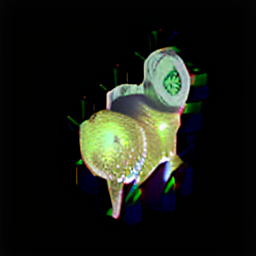
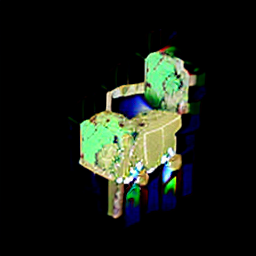
modified:   drag.py 	modified:   guidance/sd_utils.py 	modified:   main3.py 	modified:   main4.py

diff --git a/main4.py b/main4.py
@@ -181,7 +181,7 @@ class GUI:
 
         # prepare text_embeddings
         self.pos_embeds = self.guidance_sd.encode_text(self.prompt)  # [1, 77, 768]
-        # self.guidance_sd.get_text_embeds([self.prompt], [self.negative_prompt])
+        self.guidance_sd.get_text_embeds([self.prompt], [self.negative_prompt])
 
     def get_2d_mask(self, mask_dir):
         source_images, imgname2idx = load_and_preprocess_images(args.folder_path, device="cuda")
@@ -234,9 +234,9 @@ class GUI:
         poses = []  
         vers, hors, radii = [], [], []
         start_points = torch.tensor([[[390, 154]],[[227,127]],[[360, 123]],[[560, 110]]])
-        start_points = (start_points / 800) * 128
+        start_points = (start_points * 128 // 800).float()
         end_points = torch.tensor([[[390, 84]],[[227, 61]],[[360, 62]],[[560, 34]]])
-        end_points = (end_points / 800) * 128
+        end_points = (end_points * 128 // 800).float() 
         latents_before_editing = []
         masks = []
         # avoid too large elevation (> 80 or < -80), and make sure it always cover [min_ver, max_ver]
@@ -416,15 +416,15 @@ class GUI:
         print("invert code shape:", latents_before_editing.shape)
         
         init_code = latents_before_editing
-        init_code_orig = deepcopy(init_code)
-        double_pos_embeds = self.pos_embeds.repeat(2, 1, 1)
-        gen_image = self.guidance_sd.sampling(prompt=self.prompt,
-                                        batch_size=self.opt.batch_size,
-                                        text_embeddings=double_pos_embeds,
-                                        latents=torch.cat([init_code_orig, init_code_orig], dim=0),
-                                        guidance_scale=self.opt.guidance_scale,
-                                        num_inference_steps=self.opt.n_inference_step,
-                                        num_actual_inference_steps=n_actual_inference_step)
+        # init_code_orig = deepcopy(init_code)
+        # double_pos_embeds = self.pos_embeds.repeat(2, 1, 1)
+        # gen_image = self.guidance_sd.sampling(prompt=self.prompt,
+        #                                 batch_size=self.opt.batch_size,
+        #                                 text_embeddings=double_pos_embeds,
+        #                                 latents=torch.cat([init_code_orig, init_code_orig], dim=0),
+        #                                 guidance_scale=self.opt.guidance_scale,
+        #                                 num_inference_steps=self.opt.n_inference_step,
+        #                                 num_actual_inference_steps=n_actual_inference_step)
 
         # ***test sampling
         # test_prompt = "An apple."
@@ -433,14 +433,14 @@ class GUI:
         #                                       guidance_scale=self.opt.guidance_scale,
         #                                       text_embeddings=test_text_embeds)
         
-        print("gen_image:", gen_image.shape)
+        # print("gen_image:", gen_image.shape)
 
         # ***images visualize
-        for i in range(8):
-            image_np = gen_image[i].squeeze(0).permute(1, 2, 0).cpu().detach().numpy()
-            image_np = (image_np * 255).astype('uint8')
-            image_pil = Image.fromarray(image_np)
-            image_pil.save(f"rendered_images/sampling_results_{i}.png")
+        # for i in range(8):
+        #     image_np = gen_image[i].squeeze(0).permute(1, 2, 0).cpu().detach().numpy()
+        #     image_np = (image_np * 255).astype('uint8')
+        #     image_pil = Image.fromarray(image_np)
+        #     image_pil.save(f"rendered_images/sampling_results_{i}.png")
 
         # sys.exit()
         poses = torch.from_numpy(np.stack(poses, axis=0)).to(self.device)        
@@ -457,7 +457,7 @@ class GUI:
             print("Warning: please input text prompts.")
 
 
-        print("init_code:", init_code.shape)
+        # print("init_code:", init_code.shape)
 
         # the init output feature of unet
         with torch.no_grad():
@@ -480,24 +480,25 @@ class GUI:
 
         # prepare amp scaler for mixed-precision training
         scaler = torch.cuda.amp.GradScaler()
-        for _ in range(self.dragging_steps):
+        for i in range(self.dragging_steps):
             
-            loss = 0
+            loss = 0.0
             
             latents_after_editing = []
+            new_handle_point_batch = []
 
             # one step motion supervision & point tracking
-            for i in range(self.opt.batch_size):
+            for j in range(self.opt.batch_size):
                 
-                print(init_code[i].shape)
-                latent_after_editing = drag_step_without_batch(
+                # print(init_code[j].shape)
+                latent_after_editing, new_handle_points = drag_step_without_batch(
                         self.guidance_sd,
-                        init_code[i].half(),
-                        text_embeddings = self.pos_embeds[i],
+                        init_code=init_code[j].half(),
+                        text_embeddings = self.pos_embeds[j],
                         t = t,
-                        handle_points = start_points[i],
-                        handle_points_init = handle_points_init[i],
-                        target_points = end_points[i],
+                        handle_points = start_points[j],
+                        handle_points_init = handle_points_init[j],
+                        target_points = end_points[j],
                         mask = None,
                         step_idx = i,
                         F0 = F0,
@@ -506,30 +507,48 @@ class GUI:
                         interp_mask = None,
                         scaler = scaler,
                         optimizer=optimizer,
+                        cur_batch=j,
                         args = self.opt)
 
                 latents_after_editing.append(latent_after_editing)
+                new_handle_point_batch.append(new_handle_points)
 
                 # *** loss calculation: add latent after editing
-                loss = loss + self.opt.lambda_sd * self.guidance_sd.draggs_train_step(latents_after_editing[i:i+1], image[i:i+1], step_ratio=step_ratio if self.opt.anneal_timestep else None)
+                latent_for_sds = latents_after_editing[j].unsqueeze(0)
+                image_for_sds = images[j].unsqueeze(0)
+                loss = loss + self.opt.lambda_sd * self.guidance_sd.draggs_train_step(latent_for_sds, image_for_sds, step_ratio=step_ratio if self.opt.anneal_timestep else None)
                 
-            print(loss)
+            print("sds_los s=", loss.item())
 
             loss.backward()
             self.optimizer.step()
             self.optimizer.zero_grad()
 
-        # densify and prune
-        if self.step >= self.opt.density_start_iter and self.step <= self.opt.density_end_iter:
-            viewspace_point_tensor, visibility_filter, radii = out["viewspace_points"], out["visibility_filter"], out["radii"]
-            self.renderer.gaussians.max_radii2D[visibility_filter] = torch.max(self.renderer.gaussians.max_radii2D[visibility_filter], radii[visibility_filter])
-            self.renderer.gaussians.add_densification_stats(viewspace_point_tensor, visibility_filter)
+            # print("new_handle_point_batch:", new_handle_point_batch[0][0])
+            # print("latents_after_editing:", latents_after_editing)
+            start_points = new_handle_point_batch
+            init_code = latents_after_editing
 
-            if self.step % self.opt.densification_interval == 0:
-                self.renderer.gaussians.densify_and_prune(self.opt.densify_grad_threshold, min_opacity=0.01, extent=4, max_screen_size=1)
+            images = []
+            for j in range(self.opt.batch_size):
+                # set batch_size = 4
+                out = self.renderer.render(cur_cam, bg_color=bg_color)
+                image = out["image"].unsqueeze(0) # [1, 3, H, W] in [0, 1] normalized
+                images.append(image)
+                
+            images = torch.cat(images, dim=0) 
+
+        # # densify and prune
+        # if self.step >= self.opt.density_start_iter and self.step <= self.opt.density_end_iter:
+        #     viewspace_point_tensor, visibility_filter, radii = out["viewspace_points"], out["visibility_filter"], out["radii"]
+        #     self.renderer.gaussians.max_radii2D[visibility_filter] = torch.max(self.renderer.gaussians.max_radii2D[visibility_filter], radii[visibility_filter])
+        #     self.renderer.gaussians.add_densification_stats(viewspace_point_tensor, visibility_filter)
+
+        #     if self.step % self.opt.densification_interval == 0:
+        #         self.renderer.gaussians.densify_and_prune(self.opt.densify_grad_threshold, min_opacity=0.01, extent=4, max_screen_size=1)
             
-            if self.step % self.opt.opacity_reset_interval == 0:
-                self.renderer.gaussians.reset_opacity()
+        #     if self.step % self.opt.opacity_reset_interval == 0:
+        #         self.renderer.gaussians.reset_opacity()
 
         ender.record()
         torch.cuda.synchronize()

diff --git a/drag.py b/drag.py
@@ -36,6 +36,30 @@ def point_tracking(F0,
                 handle_points[j,i,1] = c1[j] + col
         return handle_points
     
+def point_tracking_without_batch(F0,
+                   F1,
+                   handle_points,
+                   handle_points_init,
+                   args):
+    with torch.no_grad():
+        _, _, max_r, max_c = F0.shape
+        for i in range(len(handle_points)):
+            pi0, pi = handle_points_init[i], handle_points[i]
+            f0 = F0[:, :, int(pi0[0]), int(pi0[1])]
+
+            r1, r2 = max(0,int(pi[0])-args.r_p), min(max_r,int(pi[0])+args.r_p+1)
+            c1, c2 = max(0,int(pi[1])-args.r_p), min(max_c,int(pi[1])+args.r_p+1)
+            F1_neighbor = F1[:, :, r1:r2, c1:c2]
+            all_dist = (f0.unsqueeze(dim=-1).unsqueeze(dim=-1) - F1_neighbor).abs().sum(dim=1)
+            all_dist = all_dist.squeeze(dim=0)
+            # print(all_dist)
+            row, col = divmod(all_dist.argmin().item(), all_dist.shape[-1])
+            # handle_points[i][0] = pi[0] - args.r_p + row
+            # handle_points[i][1] = pi[1] - args.r_p + col
+            handle_points[i][0] = r1 + row
+            handle_points[i][1] = c1 + col
+        return handle_points
+    
 def check_handle_reach_target(handle_points,
                               target_points):
     # dist = (torch.cat(handle_points,dim=0) - torch.cat(target_points,dim=0)).norm(dim=-1)
@@ -141,7 +165,7 @@ def drag_step(model,
     # scaler.step(optimizer)
     # scaler.update()
         
-    loss.backward()
+    loss.backward(retain_graph=True)
     optimizer.step()
     optimizer.zero_grad()    
 
@@ -165,6 +189,7 @@ def drag_step_without_batch(model,
         interp_mask,
         scaler,
         optimizer,
+        cur_batch,
         args):
 
         # with torch.autocast(device_type='cuda', dtype=torch.float16):
@@ -174,8 +199,8 @@ def drag_step_without_batch(model,
 
         # do point tracking to update handle points before computing motion supervision loss
         if step_idx != 0:
-            handle_points = point_tracking(F0, F1, handle_points, handle_points_init, args)
-            print('new handle points', handle_points)
+            handle_points = point_tracking_without_batch(F0, F1, handle_points, handle_points_init, args)
+            # print('new handle points', handle_points)
         else:
             print('handle_points:', handle_points)
         # break if all handle points have reached the targets
@@ -208,7 +233,7 @@ def drag_step_without_batch(model,
         if using_mask:
             loss += args.lam * ((x_prev_updated-x_prev_0)*(1.0-interp_mask)).abs().sum()
         # loss += args.lam * ((init_code_orig-init_code)*(1.0-interp_mask)).abs().sum()
-        print('loss total=%f'%(loss.item()))
+        print('batch=', cur_batch, '  loss total=%f'%(loss.item()))
 
         # scaler.scale(loss).backward(retain_graph=True)
         # scaler.step(optimizer)
@@ -216,6 +241,8 @@ def drag_step_without_batch(model,
         loss.backward(retain_graph=True)
         optimizer.step()
         optimizer.zero_grad()
+
+        return init_code, handle_points
 
 # override unet forward
 # The only difference from diffusers:
@@ -313,9 +340,9 @@ def override_forward(self):
 
         # 2. pre-process
         sample = self.conv_in(sample)
-        print("sample:",sample.shape)
-        print(emb.shape)
-        print(encoder_hidden_states.shape)
+        # print("sample:",sample.shape)
+        # print(emb.shape)
+        # print(encoder_hidden_states.shape)
         # 3. down 
         down_block_res_samples = (sample,)
         for downsample_block in self.down_blocks:

diff --git a/main3.py b/main3.py
@@ -237,9 +237,9 @@ class GUI:
         poses = []  
         vers, hors, radii = [], [], []
         start_points = torch.tensor([[[390, 154]],[[227,127]],[[360, 123]],[[560, 110]]])
-        start_points = (start_points / 800) * 128
+        start_points = (start_points * 128 // 800).float()
         end_points = torch.tensor([[[390, 84]],[[227, 61]],[[360, 62]],[[560, 34]]])
-        end_points = (end_points / 800) * 128
+        end_points = (end_points * 128 // 800).float() 
         latents_before_editing = []
         masks = []
         # avoid too large elevation (> 80 or < -80), and make sure it always cover [min_ver, max_ver]
@@ -407,7 +407,6 @@ class GUI:
         print("invert code shape:", latents_before_editing.shape)
   
         
-        init_code = latents_before_editing
         # double_pos_embeds = self.pos_embeds.repeat(2, 1, 1)
         # gen_image = self.guidance_sd.sampling(prompt=self.prompt,
         #                                 batch_size=self.opt.batch_size,
@@ -499,10 +498,10 @@ class GUI:
             for j in range(self.opt.batch_size):
 
                 # *** loss calculation: add latent after editing
-                # latent_for_sds = latents_after_editing[i].unsqueeze(0)
+                latent_for_sds = latents_after_editing[j].unsqueeze(0)
                 image_for_sds = images[j].unsqueeze(0)
-                # loss = loss + self.opt.lambda_sd * self.guidance_sd.draggs_train_step(latent_for_sds, image_for_sds, step_ratio=step_ratio if self.opt.anneal_timestep else None)
-                loss = loss + self.opt.lambda_sd * self.guidance_sd.train_step(image_for_sds, step_ratio=step_ratio if self.opt.anneal_timestep else None)
+                loss = loss + self.opt.lambda_sd * self.guidance_sd.draggs_train_step(latent_for_sds, image_for_sds, step_ratio=step_ratio if self.opt.anneal_timestep else None)
+                # loss = loss + self.opt.lambda_sd * self.guidance_sd.train_step(image_for_sds, step_ratio=step_ratio if self.opt.anneal_timestep else None)
 
             print("sds_loss=", loss.item())  
 

diff --git a/guidance/sd_utils.py b/guidance/sd_utils.py
@@ -230,9 +230,9 @@ class StableDiffusion(nn.Module):
             pred_rgb,step_ratio=None,
             guidance_scale=100,
             as_latent=False,
-            vers=None, hors=None, 
+            vers=None, 
+            hors=None,
     ):
-        
         batch_size = 1
         pred_rgb = pred_rgb.to(self.dtype)
 
